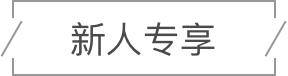
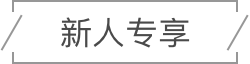
商城首页修改样式

diff --git a/project/wisdom-project/src/main/resources/static/customer/views/business/shopHome.html b/project/wisdom-project/src/main/resources/static/customer/views/business/shopHome.html
@@ -77,8 +77,8 @@
 
 
         .tab_sty{
-            height: 80px;
-            line-height: 68px;
+            height: 48px;
+            line-height: 48px;
             width: 100%;
         }
         .tab_sty ul{
@@ -89,12 +89,14 @@
             width: 100%;
             overflow-x: scroll;
             overflow-y: hidden;
+            margin-top: 16px;
+
         }
         .tab_sty .tab_header ul{
             height: 100%;
         }
         .tab_sty .tab_header ul li{
-            height: 68px;
+            height: 42px;
             width:16%;
             text-align: center;
             border-radius: 8px;
@@ -142,7 +144,7 @@
         .tab-title{font-size: 14px;}
 
     </style>
-    <ion-content overflow-scroll="true" style="bottom: 62px">
+    <ion-content overflow-scroll="true" style="bottom: 48px">
         <!--轮播图部分-->
         <a style="background: #FC4B4B;height: 36px;line-height: 36px;font-size: 16px;font-family: PingFangSC-Regular;text-align: center"
            href="https://mp.weixin.qq.com/s/B8f8hmCWz3T2xUwpRvz-iQ">一个可以分享赚钱的美妆商城</a>
@@ -155,9 +157,9 @@
             </ion-slide>
         </ion-slide-box>
         <!--新人专享-->
-        <div style="width: 100%;height: 84px;position:relative;">
-            <img src="images/newPeople.png" style="width: 150px;height: 38px;position:absolute;top:50%;left:50%;margin-top: -19px;
-    margin-left: -75px;">
+        <div style="width: 100%;height: 68px;position:relative;">
+            <img src="images/newPeople.png" style="width: 123px;height:32px;position:absolute;top:50%;left:50%;margin-top: -12px;
+    margin-left: -61.5px;">
         </div>
         <div style="height:136px;width:7.50rem" ng-repeat="item in param.productList"
             ng-if="item.productPrefecture=='1'">
@@ -165,9 +167,9 @@
                 style="width: 7.5rem;height: 136px"/>
        </div>
        <!--活动专区-->
-        <div style="width: 100%;height: 84px;position:relative;">
-            <img src="images/huodong.png" style="width: 150px;height: 38px;position:absolute;top:50%;left:50%;margin-top: -19px;
-    margin-left: -75px;">
+        <div style="width: 100%;height: 68px;position:relative;">
+            <img src="images/huodong.png" style="width: 123px;height:32px;position:absolute;top:50%;left:50%;margin-top: -12px;
+    margin-left: -61.5px;">
         </div>
         <div style="height:136px;width:7.50rem" ng-repeat="item in  param.productList"
              ng-if="item.productPrefecture=='2'">
@@ -202,12 +204,12 @@
                         <!--点击全部按钮-->
                         <!--99-->
                         <div style="width: 100%" class="row row-wrap" ng-if="allProductFlag" >
-                          <div style="width: 100%;height: 50px;line-height: 50px;padding: 15px">
+                          <div style="width: 100%;height: 50px;line-height: 50px;padding: 20px">
                               <img src="images/99.png" style="width: 225px;margin: 0 auto">
                           </div>
                             <div   ng-click="enterDetails(item.productId)" class="col col-50" ng-repeat="item in onePriductList">
                                 <img class="full-image" ng-src="{{item.firstUrl}}"style="height: 168px">
-                                <p style="font-family: PingFang-SC-Regular;font-size: 14px;color: #4A4A4A;letter-spacing: 0;line-height: 16px;margin-top: 10px">
+                                <p style="font-family: PingFang-SC-Regular;font-size: 14px;color: #4A4A4A;letter-spacing: 0;line-height: 16px;margin-top: 10px;margin-bottom: 20px">
                                     <span  style="width: 100%; display: inline-block ;overflow: hidden;text-overflow: ellipsis;display: -webkit-box; -webkit-line-clamp: 2;-webkit-box-orient: vertical;margin-bottom: 6px;font-family: PingFang-SC-Regular;font-size: 14px;color: #4A4A4A;letter-spacing: 0;line-height: 16px;">{{item.productName}}</span>
 
                                     <span style="font-family: PingFangSC-Regular;font-size: 16px;color: #FF6666;letter-spacing: 0;">￥{{item.price}}</span>
@@ -217,12 +219,12 @@
                         </div>
                         <!--199-->
                         <div style="width: 100%" class="row row-wrap" ng-if="allProductFlag">
-                            <div style="width: 100%;height: 50px;line-height: 50px;padding: 15px">
+                            <div style="width: 100%;height: 50px;line-height: 50px;padding: 20px">
                                 <img src="images/199.png" style="width: 225px;margin: 0 auto">
                             </div>
                         <div   ng-click="enterDetails(item.productId)" class="col col-50" ng-repeat="item in twoPriductList">
                             <img class="full-image" ng-src="{{item.firstUrl}}"style="height: 168px">
-                            <p style="font-family: PingFang-SC-Regular;font-size: 14px;color: #4A4A4A;letter-spacing: 0;line-height: 16px;margin-top: 10px">
+                            <p style="font-family: PingFang-SC-Regular;font-size: 14px;color: #4A4A4A;letter-spacing: 0;line-height: 16px;margin-top: 10px;margin-bottom: 20px">
                                 <span  style="width: 100%; display: inline-block ;overflow: hidden;text-overflow: ellipsis;display: -webkit-box; -webkit-line-clamp: 2;-webkit-box-orient: vertical;margin-bottom: 6px;font-family: PingFang-SC-Regular;font-size: 14px;color: #4A4A4A;letter-spacing: 0;line-height: 16px;">{{item.productName}}</span>
 
                                 <span style="font-family: PingFangSC-Regular;font-size: 16px;color: #FF6666;letter-spacing: 0;">￥{{item.price}}</span>
@@ -233,12 +235,12 @@
 
                         <!--299-->
                         <div style="width: 100%" class="row row-wrap" ng-if="allProductFlag">
-                            <div style="width: 100%;height: 50px;line-height: 50px;padding: 15px">
+                            <div style="width: 100%;height: 50px;line-height: 50px;padding: 20px">
                                 <img src="images/299.png" style="width: 225px;margin: 0 auto">
                             </div>
                             <div   ng-click="enterDetails(item.productId)" class="col col-50" ng-repeat="item in threePriductList">
                                 <img class="full-image" ng-src="{{item.firstUrl}}"style="height: 168px">
-                                <p style="font-family: PingFang-SC-Regular;font-size: 14px;color: #4A4A4A;letter-spacing: 0;line-height: 16px;margin-top: 10px">
+                                <p style="font-family: PingFang-SC-Regular;font-size: 14px;color: #4A4A4A;letter-spacing: 0;line-height: 16px;margin-top: 10px;margin-bottom: 20px">
                                     <span  style="width: 100%; display: inline-block ;overflow: hidden;text-overflow: ellipsis;display: -webkit-box; -webkit-line-clamp: 2;-webkit-box-orient: vertical;margin-bottom: 6px;font-family: PingFang-SC-Regular;font-size: 14px;color: #4A4A4A;letter-spacing: 0;line-height: 16px;">{{item.productName}}</span>
 
                                     <span style="font-family: PingFangSC-Regular;font-size: 16px;color: #FF6666;letter-spacing: 0;">￥{{item.price}}</span>
@@ -248,12 +250,12 @@
                         </div>
                         <!--399-->
                         <div style="width: 100%" class="row row-wrap" ng-if="allProductFlag">
-                            <div style="width: 100%;height: 50px;line-height: 50px;padding: 15px">
+                            <div style="width: 100%;height: 50px;line-height: 50px;padding: 20px">
                                 <img src="images/399.png" style="width: 225px;margin: 0 auto">
                             </div>
                             <div   ng-click="enterDetails(item.productId)" class="col col-50" ng-repeat="item in fourPriductList">
                                 <img class="full-image" ng-src="{{item.firstUrl}}"style="height: 168px">
-                                <p style="font-family: PingFang-SC-Regular;font-size: 14px;color: #4A4A4A;letter-spacing: 0;line-height: 16px;margin-top: 10px">
+                                <p style="font-family: PingFang-SC-Regular;font-size: 14px;color: #4A4A4A;letter-spacing: 0;line-height: 16px;margin-top: 10px;margin-bottom: 20px">
                                     <span  style="width: 100%; display: inline-block ;overflow: hidden;text-overflow: ellipsis;display: -webkit-box; -webkit-line-clamp: 2;-webkit-box-orient: vertical;margin-bottom: 6px;font-family: PingFang-SC-Regular;font-size: 14px;color: #4A4A4A;letter-spacing: 0;line-height: 16px;">{{item.productName}}</span>
 
                                     <span style="font-family: PingFangSC-Regular;font-size: 16px;color: #FF6666;letter-spacing: 0;">￥{{item.price}}</span>
@@ -264,12 +266,12 @@
 
                         <!--499-->
                         <div style="width: 100%" class="row row-wrap" ng-if="allProductFlag">
-                            <div style="width: 100%;height: 50px;line-height: 50px;padding: 15px">
+                            <div style="width: 100%;height: 50px;line-height: 50px;padding: 20px">
                                 <img src="images/499.png" style="width: 225px;margin: 0 auto">
                             </div>
                             <div ng-if="allProductFlag" ng-click="enterDetails(item.productId)" class="col col-50" ng-repeat="item in fivePriductList">
                                 <img class="full-image" ng-src="{{item.firstUrl}}"style="height: 168px">
-                                <p style="font-family: PingFang-SC-Regular;font-size: 14px;color: #4A4A4A;letter-spacing: 0;line-height: 16px;margin-top: 10px">
+                                <p style="font-family: PingFang-SC-Regular;font-size: 14px;color: #4A4A4A;letter-spacing: 0;line-height: 16px;margin-top: 10px;margin-bottom: 20px">
                                     <span  style="width: 100%; display: inline-block ;overflow: hidden;text-overflow: ellipsis;display: -webkit-box; -webkit-line-clamp: 2;-webkit-box-orient: vertical;margin-bottom: 6px;font-family: PingFang-SC-Regular;font-size: 14px;color: #4A4A4A;letter-spacing: 0;line-height: 16px;">{{item.productName}}</span>
 
                                     <span style="font-family: PingFangSC-Regular;font-size: 16px;color: #FF6666;letter-spacing: 0;">￥{{item.price}}</span>
@@ -286,23 +288,23 @@
         </div>
     </ion-content>
     <!--ionic 底部切换在安卓手机出现兼容问题 所以改变成div形式-->
-    <div style="width: 100%;background: #DBDBDB ;position: absolute;left: 0px;bottom: 0px;right: 0px;height: 62px;">
+    <div style="width: 100%;background: #DBDBDB ;position: absolute;left: 0px;bottom: 0px;right: 0px;height: 48px;">
         <ul style="display: flex;flex-wrap: wrap;justify-content: space-between;font-size: 14px">
-            <li style="text-align: center;width: 25%;height: 62px" class="footColor" ng-class="{'footActive':param.checkType==0}" ng-click="checkBg(0)" ui-sref="shopHome">
-                <i class=" icon ion-ios-home-outline"  style="font-size: 30px;margin-top: 7px;display: inline-block" class="footColor"></i>
-                <p style="margin-top: 4px">首页</p>
+            <li style="text-align: center;width: 25%;height: 48px" class="footColor" ng-class="{'footActive':param.checkType==0}" ng-click="checkBg(0)" ui-sref="shopHome">
+                <i class=" icon ion-ios-home-outline"  style="font-size: 24px;display: inline-block;margin-top: 5px" class="footColor"></i>
+                <p style="margin-top: 1px;font-size: 12px">首页</p>
             </li>
-            <li style="text-align: center;width: 25%;height: 62px"  ng-class="{'footActive':param.checkType==1}" ng-click="checkBg(1)" class="footColor" ui-sref="shareHome">
-                <i class=" icon ion-ios-redo-outline" style="font-size: 30px;margin-top: 7px;display: inline-block"></i>
-                <p style="margin-top: 4px">分享赚钱</p>
+            <li style="text-align: center;width: 25%;height: 48px"  ng-class="{'footActive':param.checkType==1}" ng-click="checkBg(1)" class="footColor" ui-sref="shareHome">
+                <i class=" icon ion-ios-redo-outline" style="font-size: 24px;display: inline-block;margin-top: 5px"></i>
+                <p style="margin-top: 1px;font-size: 12px">分享赚钱</p>
             </li>
-            <li style="text-align: center;width: 25%;height: 62px"  ng-class="{'footActive':param.checkType==2}" ng-click="checkBg(2)" class="footColor" ui-sref="buyCart">
-                <i class=" icon ion-ios-cart-outline" style="font-size: 30px;margin-top: 7px;display: inline-block"></i>
-                <p style="margin-top: 4px">购物车</p>
+            <li style="text-align: center;width: 25%;height: 48px"  ng-class="{'footActive':param.checkType==2}" ng-click="checkBg(2)" class="footColor" ui-sref="buyCart">
+                <i class=" icon ion-ios-cart-outline" style="font-size: 24px;display: inline-block;margin-top: 5px"></i>
+                <p style="margin-top: 1px;font-size: 12px">购物车</p>
             </li>
-            <li style="text-align: center;width: 25%;height: 62px"  ng-class="{'footActive':param.checkType==3}" ng-click="checkBg(3)" class="footColor" ui-sref="orderManagement({type:'all'})">
-                <i class=" icon ion-ios-list-outline" style="font-size: 30px;margin-top: 7px;display: inline-block"></i>
-                <p style="margin-top: 4px">我的订单</p>
+            <li style="text-align: center;width: 25%;height: 48px"  ng-class="{'footActive':param.checkType==3}" ng-click="checkBg(3)" class="footColor" ui-sref="orderManagement({type:'all'})">
+                <i class=" icon ion-ios-list-outline" style="font-size: 24px;display: inline-block;margin-top: 5px"></i>
+                <p style="margin-top: 1px;font-size: 7px">我的订单</p>
             </li>
         </ul>
     </div>
@@ -315,10 +317,10 @@
                  ui-sref="orderManagement"></ion-tab>
     </ion-tabs>-->
     <!--进首页弹出页面-->
-    <div class="redPacket_box" ng-if="param.redPackerBox">
+  <!--  <div class="redPacket_box" ng-if="param.redPackerBox">
         <div class="redPacket">
             <img src="images/huo.jpg" alt="">
             <span ng-click="redPackerClose()" class="close1"></span>
         </div>
-    </div>
+    </div>-->
 </ion-view>
